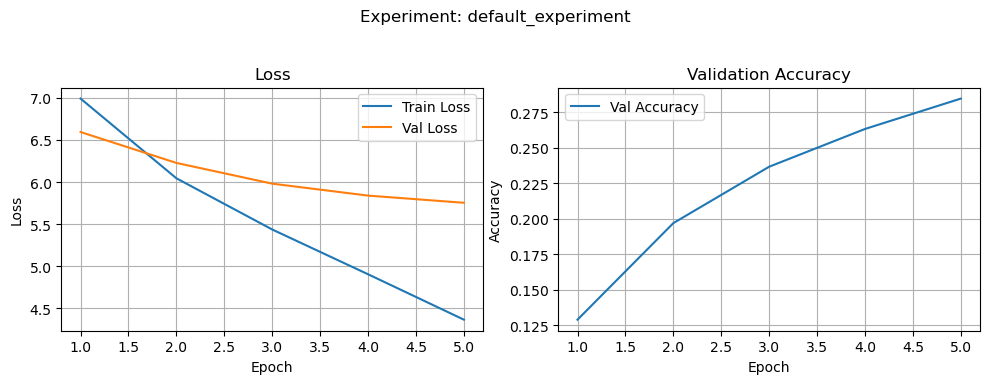
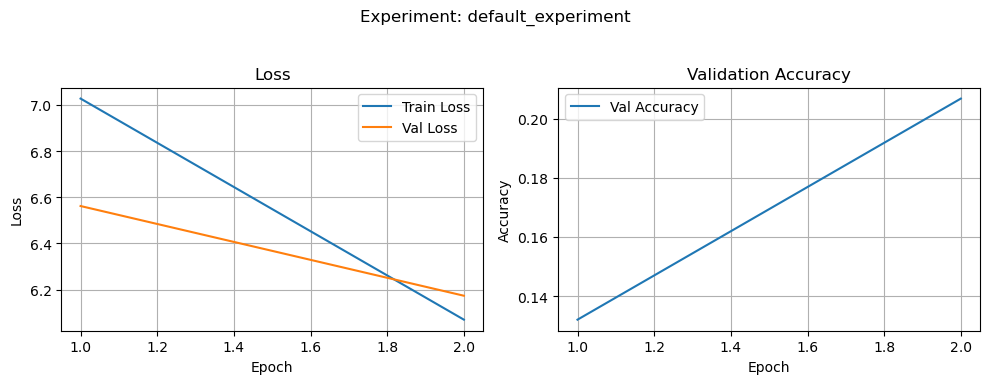
implemented efficiency changes

diff --git a/models/real_train_vit.py b/models/real_train_vit.py
@@ -15,7 +15,7 @@ import torch.nn.functional as F
 from PIL import Image
 
 # -------------- Hyper / Paths --------------
-TRAIN = False   # <-- Set True to train, False to load and run inference
+TRAIN = True   # <-- Set True to train, False to load and run inference
 MANIFEST_PATH = 'data/processed/imgflip575k_manifest.json'   # update to your dataset manifest
 CHECKPOINT_PATH = 'models/meme_caption_vit.pt'               # where to save / load model
 PLOT_DIR = 'plots'
@@ -249,6 +249,7 @@ def run_optimizer_experiment(
             logits = model(images, inps)
             loss = criterion(logits.permute(0,2,1), tgts)
             loss.backward()
+            torch.nn.utils.clip_grad_norm_(model.parameters(), max_norm = 1.0)
             optimizer.step()
             running_loss += loss.item() * images.size(0)
             num_samples += images.size(0)
@@ -282,7 +283,7 @@ def run_optimizer_experiment(
 
 # -------------- Generation helpers --------------
 @torch.no_grad()
-def generate_greedy(model, image_tensor, tokenizer, device, max_len=30, min_len=1):
+def generate_greedy(model, image_tensor, tokenizer, device, max_len=30, min_len=1, temperature=1.0, top_p=0.9):
     model.eval()
     if image_tensor.dim() == 3:
         image_tensor = image_tensor.unsqueeze(0)
@@ -292,7 +293,33 @@ def generate_greedy(model, image_tensor, tokenizer, device, max_len=30, min_len=
     cur = torch.tensor([[sos]], device=device)
     for t in range(max_len):
         logits = model(image_tensor, cur)
-        nxt = torch.argmax(logits[:, -1, :], dim=-1).unsqueeze(0)
+        
+        # --- NEW SAMPLING LOGIC ---
+        # Get the logits for the last token and apply temperature
+        logits = logits[:, -1, :] / temperature 
+        
+        # Apply top-p (Nucleus) sampling
+        if top_p < 1.0:
+            sorted_logits, sorted_indices = torch.sort(logits, descending=True)
+            cumulative_probs = torch.cumsum(F.softmax(sorted_logits, dim=-1), dim=-1)
+            
+            # Remove tokens with cumulative probability above the threshold
+            # Shift the indices to the right to keep tokens with cumulative prob <= top_p
+            sorted_indices_to_remove = cumulative_probs > top_p
+            
+            # Keep at least one token
+            sorted_indices_to_remove[..., 1:] = sorted_indices_to_remove[..., :-1].clone()
+            sorted_indices_to_remove[..., 0] = 0
+
+            # Scatter back to the original indices
+            indices_to_remove = sorted_indices[sorted_indices_to_remove]
+            logits[:, indices_to_remove] = -float('Inf')
+
+        # Sample from the remaining logits
+        probs = F.softmax(logits, dim=-1)
+        nxt = torch.multinomial(probs, num_samples=1).unsqueeze(0)
+        # --- END NEW SAMPLING LOGIC ---
+
         cur = torch.cat([cur, nxt], dim=1)
         if eos is not None and nxt.item() == eos and cur.shape[1]-1 >= min_len:
             break
@@ -425,7 +452,7 @@ if __name__ == "__main__":
     required_effective = max_enc_len + 2
     max_length_for_model = required_effective - 1
 
-    d_embed = 128; num_heads = 4; n_blocks = 4; img_size=224; patch_size=16
+    d_embed = 256; num_heads = 4; n_blocks = 4; img_size=224; patch_size=16
     device = torch.device("cuda" if torch.cuda.is_available() else "cpu")
     model = ImageCaptioningModel(vocab_size=len(tokenizer.vocab),
                                  d_embed=d_embed, num_heads=num_heads, n_blocks=n_blocks,
@@ -438,7 +465,7 @@ if __name__ == "__main__":
     config = {
         'name': 'default_experiment',
         'optimizer_class': torch.optim.Adam,
-        'kwargs': {'lr': 1e-3},
+        'kwargs': {'lr': 3e-4},
         'scheduler_class': None,
         'scheduler_kwargs': {}
     }
@@ -452,7 +479,7 @@ if __name__ == "__main__":
             train_dataloader=train_loader,
             val_dataloader=val_loader,
             criterion=criterion,
-            num_epochs=5,
+            num_epochs=15,
             device=device,
             config=config,
             display=True,
@@ -487,8 +514,8 @@ if __name__ == "__main__":
                 if eos is not None and tok == eos: break
                 ref.append(tok)
             ref_text = tokenizer.decode(ref)
-            pred_greedy = generate_greedy(trained_model, img, tokenizer, device, max_len=40, min_len=2)
-            pred_beam   = generate_beam(trained_model, img, tokenizer, device, max_len=40, beam_width=3)
+            pred_greedy = generate_greedy(trained_model, img, tokenizer, device, max_len=50, min_len=2, temperature = 0.9, top_p = 0.9)
+            pred_beam   = generate_beam(trained_model, img, tokenizer, device, max_len=50, beam_width=3)
             print(f"=== Example {cnt+1} ===")
             print("Reference:", ref_text)
             print("Greedy:", pred_greedy)
